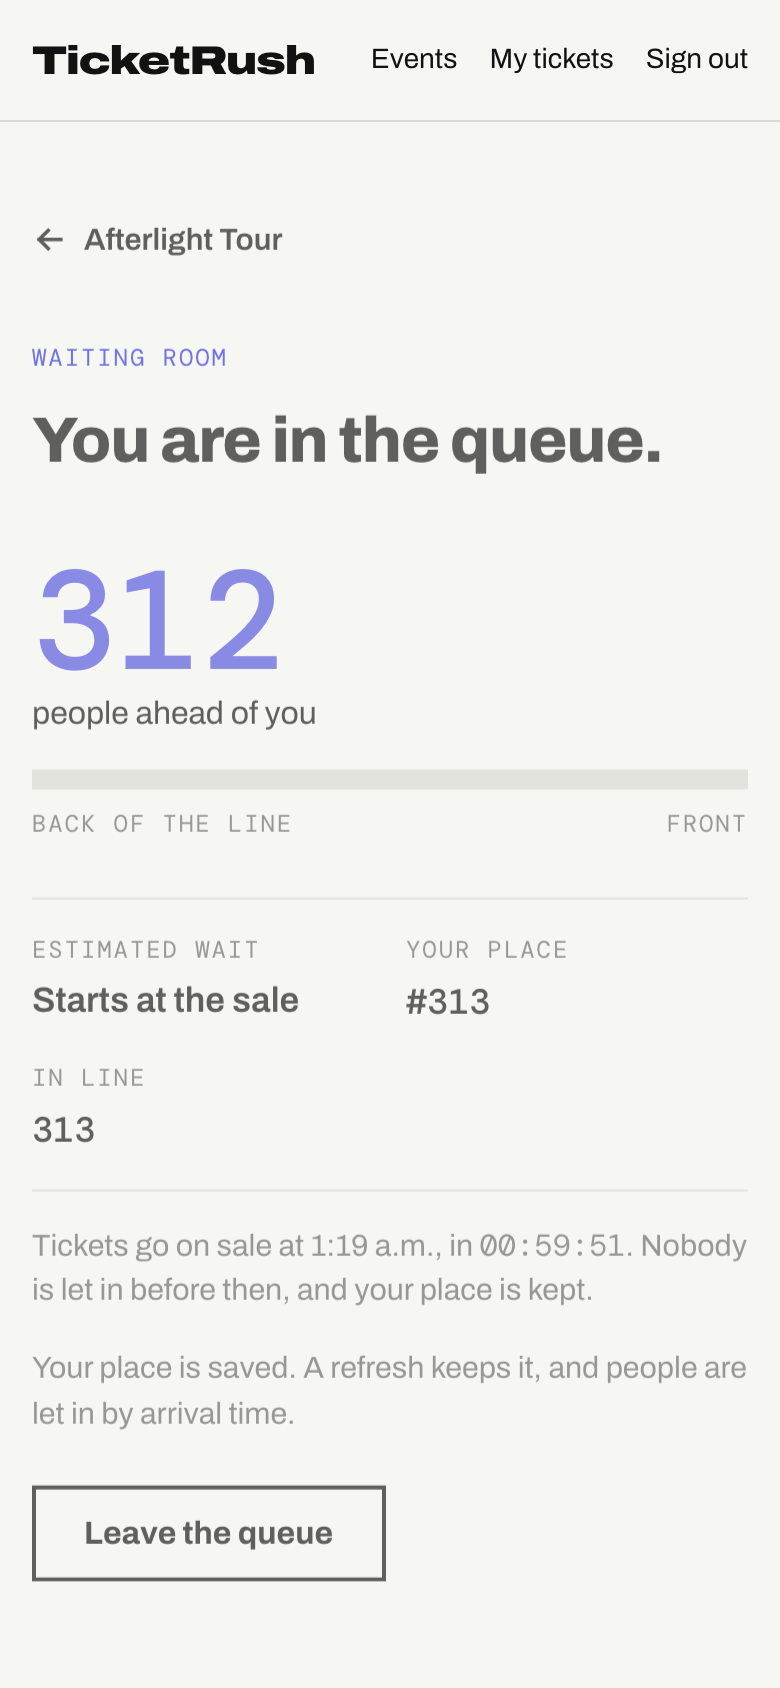
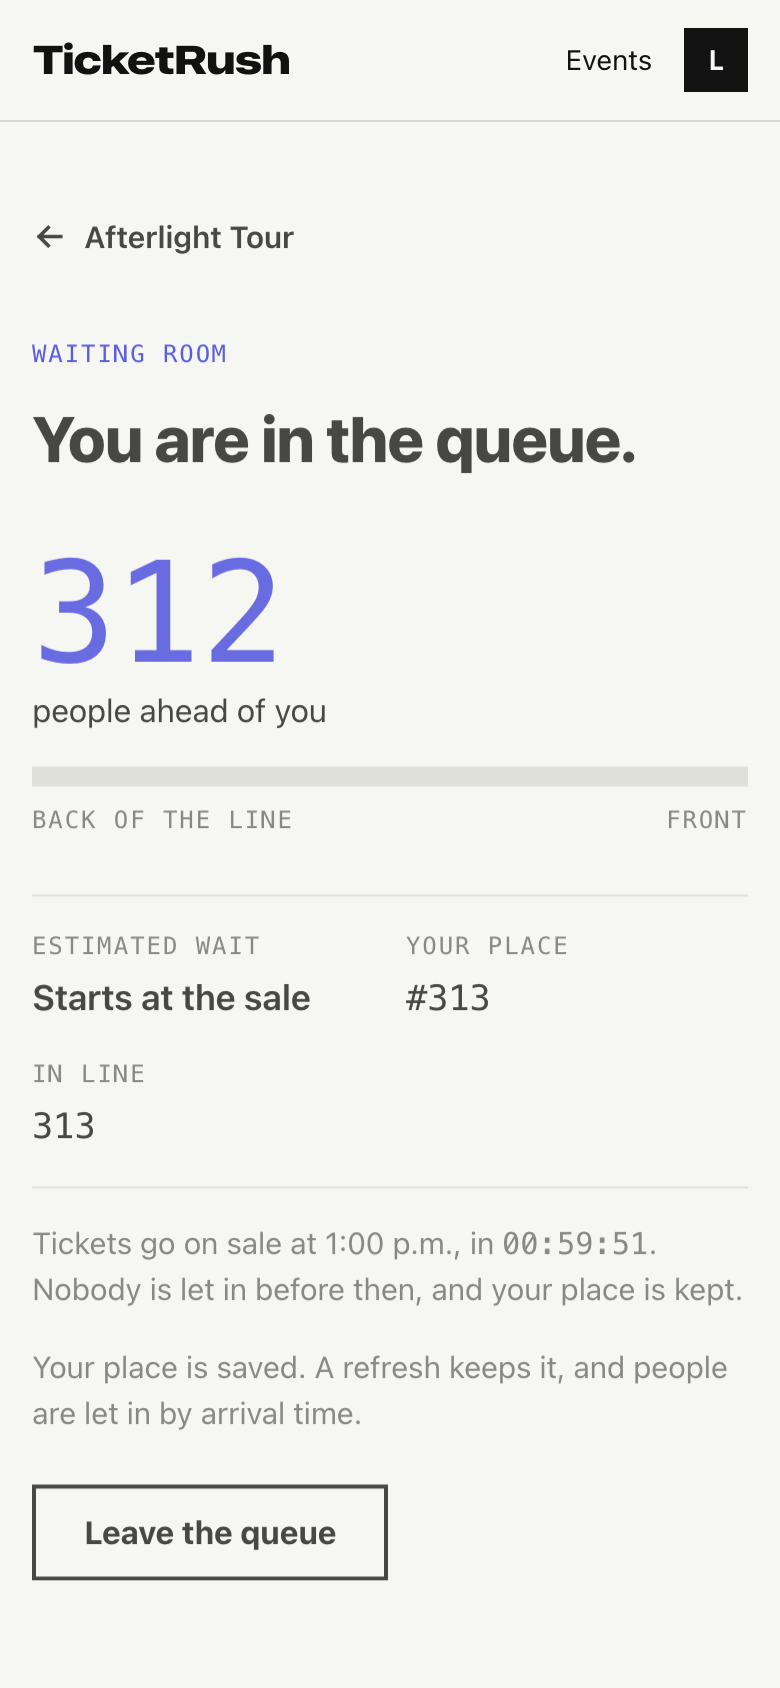
docs: refresh the README and regenerate every screenshot (#36)
* docs: refresh the README and regenerate every screenshot

The screenshots were stale (the account menu, the fixed footer links, the hold clock on checkout,
Stripe's card form didn't appear in any of them) and the README still said 'Work in progress' and the
wrong coverage gate (95% was never the number; the pom has always gated 93% lines / 82% branches).

- Regenerated all 14 README screenshots against the current UI
- Fixed a real bug in scripts/screenshots.ts while doing it: the checkout screenshot was taken mid
  view-transition (the seats page and the checkout page double-exposed in one frame) because the script
  didn't wait for the page to settle after the navigation
- Reworded the intro: the project is no longer 'in progress' in the way that line suggested (payments,
  email, security scanning, legal/account pages have shipped since); named Stripe, Turnstile, Resend and
  the security scans in the Stack section, where a reader scanning quickly would look for them first
- Corrected the JaCoCo gate number and verified every doc link in the README still resolves

No license file added; the user was asked and chose to skip it for now.

* docs: a system design section up front, with an architecture diagram

The README buried its best evidence — the load test, the ADRs, the concurrency guarantees — under
screenshots and a feature list. A reader skimming for two minutes should see the hard problems and how
they were proven solved before anything else.
[…]

diff --git a/frontend/scripts/screenshots.ts b/frontend/scripts/screenshots.ts
@@ -105,6 +105,8 @@ await shoot('checkout', 1280, 800, async (page) => {
   await chooseFree(page, 'C', 2)
   await page.getByRole('button', { name: 'Hold these 2 seats' }).click()
   await page.waitForURL('**/checkout')
+  await page.getByRole('heading', { name: 'Checkout' }).waitFor()
+  await page.waitForTimeout(700) // the seat map glides into the checkout summary; let it finish before the picture
   await page.getByLabel('Card number').fill('4242424242424242')
   await page.getByLabel('Expiry').fill('1234')
   await page.getByLabel('Security code').fill('123')

diff --git a/docs/edge-cases.md b/docs/edge-cases.md
@@ -1,0 +1,74 @@
+# Edge cases and failure modes
+
+Every row here is proven by a test that creates the situation on purpose, not by inspection or hoping. The test
+name is the plain-English description of the scenario; the file is where to find it. This list is not exhaustive —
+it is the ones worth a second look, because money, a seat, or an account was on the line.
+
+## Payments
+
+| Scenario | What happens | Proven in |
+|---|---|---|
+| A card is declined | The order fails with the provider's reason; the seat hold is kept so the guest can try another card without losing their place | `OrderIntegrationTest.aDeclinedCardFailsTheOrderButKeepsTheHoldForAnotherTry` |
+| The provider never answers (a timeout) | The order stays pending, the seats stay held past their original expiry, and a reconciler looks the charge up later and settles it — without a second charge | `OrderIntegrationTest.anUnknownOutcomeStaysPendingAndKeepsTheSeatsBeyondTheOriginalExpiry`, `aSlowChargeIsFoundAndSettledByTheReconciler` |
+| The guest retries after an unknown outcome | Settles once, using the same idempotency key; never a second charge | `OrderIntegrationTest.retryingWithTheSameKeyAfterAnUnknownOutcomeSettlesWithoutASecondCharge` |
+| 10 identical payment requests arrive at once | Exactly one order, one charge | `OrderIntegrationTest.tenIdenticalRequestsAtOnceMakeOneOrderAndOneCharge` |
+| 10 different idempotency keys for the same hold | Exactly one of them pays; the hold cannot be double-sold by generating new keys | `OrderIntegrationTest.tenRequestsWithDifferentKeysForOneHoldPayExactlyOnce` |
+| A key is reused for a different hold or card | Rejected (422), not silently treated as the earlier request | `OrderIntegrationTest.theSameKeyForADifferentRequestIsRejected` |
+| Someone else takes the seats while this guest's charge is still in flight | The charge is refunded automatically and no ticket is issued | `OrderIntegrationTest.seatsTakenWhileTheChargeRunsAreRefundedAndNoTicketsExist` |
+| The organizer cancels the event while a payment is mid-flight | The payment is refunded; nothing is sold | `EventCancellationIntegrationTest.aPaymentThatSettlesAfterTheCancelIsRefundedAndSellsNothing` |
+| A refund itself fails (provider error) | Left pending, and a reconciler keeps retrying until it goes through | `EventCancellationIntegrationTest.aRefundThatFailsStaysPendingAndTheReconcilerFinishesIt` |
+| An event is cancelled twice | Refunds nobody twice | `EventCancellationIntegrationTest.cancellingTwiceRefundsNobodyTwice` |
+| A ticket was already scanned at the door when the event is cancelled | That order is left alone — the guest attended, so they keep it | `EventCancellationIntegrationTest.aTicketThatWasAlreadyScannedIsNotRefundedButOthersAre` |
+| Stripe: a card needs 3-D Secure | Declined, and the PaymentIntent is cancelled at Stripe rather than left open | `StripePaymentGatewayTest.aCardThatNeedsExtraAuthenticationIsCancelledAndDeclined` |
+| Stripe: cancelling that PaymentIntent itself fails | The decline still stands — a failed cleanup never turns into a false success | `StripePaymentGatewayTest.aFailedCancelDoesNotChangeTheAnswer` |
+| Stripe: a refund is asked for twice | The second counts as already done, not an error to keep retrying forever | `StripePaymentGatewayTest.anAlreadyRefundedChargeCountsAsRefundedAndOtherFailuresAreRetried` |
+| The confirmation relay crashes mid-delivery | Exactly one confirmation still reaches the guest once it is back up | `OrderRecoveryIntegrationTest.aPaidOrderGetsExactlyOneConfirmationEvenIfTheRelayRunsTwice` |
+| The app is given a live (non-test) Stripe key | It refuses to start | `StripePaymentGatewayTest.theAppDoesNotStartWithALiveKey` |
+
+## Concurrency and fairness
+
+| Scenario | What happens | Proven in |
+|---|---|---|
+| 300 guests claim the same seat at the same instant | Exactly one wins, every run | `HoldConcurrencyIntegrationTest.threeHundredGuestsRaceForOneSeatAndExactlyOneWins` (see [ADR 0001](adr/0001-seat-claims.md)) |
+| A guest's own client retries a hold request in a storm (a flaky connection resending) | Ends with exactly one hold, not one per retry | `HoldConcurrencyIntegrationTest.aRetryStormFromOneGuestEndsWithExactlyOneHold` |
+| 100 guests race for a seat the instant its hold expires | Exactly one wins; expiry and claiming share the same lock, so there is no gap between them | `HoldConcurrencyIntegrationTest.aHundredGuestsRaceForASeatWhoseHoldJustExpiredAndExactlyOneWins` |
+| 200 guests join the waiting room at once | Places 1–200, no gaps and no repeats | `QueueConcurrencyIntegrationTest.twoHundredGuestsJoinAtOnceAndEndUpWithPlacesOneToTwoHundred` |
+| 8 admission rounds fire at the exact same instant | Never more than the cap let in, never the same guest admitted twice | `QueueConcurrencyIntegrationTest.eightAdmissionRoundsAtOnceNeverLetInMoreThanTheCapOrTheSameGuestTwice` |
+| An admitted guest joins the queue again | Does not go back to the end of the line | `QueueIntegrationTest.joiningAgainWhileAdmittedDoesNotPutYouBackInLine` |
+| 8 sign-ups with the same email at once | Exactly one account is created | `AuthIntegrationTest.concurrentSignUpsWithOneEmailCreateExactlyOneAccount` |
+
+## Identity and sessions
+
+| Scenario | What happens | Proven in |
+|---|---|---|
+| Wrong password vs. an email that does not exist | The same response, in the same time, either way — neither can be told apart | `AuthIntegrationTest.wrongPasswordAndUnknownEmailLookTheSame` |
+| Repeated password guesses | Slowed down per address, and the guest is told exactly how long to wait | `AuthRateLimitIntegrationTest.guessingPasswordsIsSlowedDownAndTheAnswerSaysHowLong` |
+| A token is renewed again and again, far past when the password was entered | Refused past 8 hours from the original sign-in, however often it is renewed in between | `SessionRefreshIntegrationTest.aRefreshCannotKeepASignInAliveForever` |
+| A password is reset through the emailed link | Every other outstanding reset link is retired, and sign-ins from before the change can no longer be renewed | `AccountEmailsIntegrationTest.choosingANewPasswordRetiresOtherLinksAndEndsOlderSignIns` |
+| A reset link is asked for twice inside a minute | One email, not two | `AccountEmailsIntegrationTest.askingTwiceInAMinuteSendsOneEmailAndTheAnswerNeverRevealsWhoHasAnAccount` |
+| A reset is asked for an address with no account | The response gives no sign either way | `AccountEmailsIntegrationTest.neverTouchesAnAccountThatExists` |
+| Cloudflare's bot-check service itself is unreachable | Sign-up fails closed with its own message, rather than letting the sign-up through | `SignUpBotCheckIntegrationTest.whenTheCheckCannotBeRunSignUpFailsClosedWithItsOwnMessage` |
+| No email provider is configured (a dev/demo environment) | New guests are never asked to confirm an address they cannot receive mail at | `AccountEmailsIntegrationTest.whenMailCannotBeSentGuestsAreNotAskedToConfirmAndCanGoStraightToTheQueue` |
+| A guest tries to close their account while holding a ticket for an event that has not happened | Refused, with the reason, until the ticket is used or the event is over | `AccountDataIntegrationTest.closingIsRefusedWhileATicketForAnEventToComeIsHeld` |
+| A guest tries to close their account mid-payment | Refused until the payment has settled one way or the other | `AccountDataIntegrationTest.closingIsRefusedWhileAPaymentIsStillBeingSettled` |
+| An organizer tries to close their account the same way | Refused outright — an organizer owns events and sales records | `AccountDataIntegrationTest.anOrganizerCannotCloseTheirAccountHere` |
+
+## Access control
+
+| Scenario | What happens | Proven in |
+|---|---|---|
+| A new endpoint is added with no explicit access rule | The build fails — every endpoint must be listed as open, guest, or organizer, in one place that is checked against the real routes | `AuthorizationMatrixIntegrationTest.everyEndpointIsClassifiedExactlyOnce` |
+| An anonymous caller reaches anything not meant to be public | Refused (401), checked against every endpoint in the app, not a sample | `AuthorizationMatrixIntegrationTest.anonymousCallersAreTurnedAwayFromEverythingThatIsNotOpen` |
+| A signed-in guest reaches an organizer-only endpoint | Refused (403), again checked against every endpoint | `AuthorizationMatrixIntegrationTest.aGuestIsRefusedEverythingForOrganizersAndIsNotRefusedTheRest` |
+| A guest's admission token is reused by someone else, for another event, past its expiry, or edited | Refused in each case | `HoldAdmissionGateIntegrationTest` |
+
+## What the guest actually sees (browser end to end)
+
+| Scenario | What happens | Proven in |
+|---|---|---|
+| The connection drops mid-queue or mid-hold | Told plainly; their place in line and any held seats are kept; reconnects by itself | `e2e/errors.spec.ts: going offline says so, says nothing is lost, and announces the return` |
+| The events list fails to load | Told, with a retry button; nothing about their place in line is touched | `e2e/errors.spec.ts: when the events cannot be loaded, the guest is told and can try again` |
+| Too many requests from one address | Told exactly how long to wait, and the button re-enables itself when the wait is over | `e2e/errors.spec.ts: a rate limit shows how long to wait and unlocks the button by itself` |
+| A link to an event that no longer exists | A designed "not found" screen with a way back, never a blank page | `e2e/errors.spec.ts: an unknown page or event gets a designed screen with a way home` |
+
+For the reasoning behind the design, not just the test that proves it, see [docs/adr](adr) — each record names the alternatives that were considered and why they lost.

diff --git a/README.md b/README.md
@@ -4,14 +4,38 @@
 
 Flash-sale ticketing that stays correct under a traffic spike: a waiting room, live seat maps, timed seat holds, and zero oversold seats, backed by a published load test.
 
-> Work in progress. Done: sign-in, the event and seat catalog, seat holds, the waiting room, checkout and tickets, a load test with published results, the guest web app, and the organizer console. It is live at https://ticketrush-web.fly.dev (demo data, mock payments; [how it is deployed](docs/deploy.md)).
+> End to end: sign-in and account recovery, the event and seat catalog, seat holds, the waiting room, checkout and tickets, cancellations and refunds, the organizer console, email, and a load test with published results. It is live at https://ticketrush-web.fly.dev ([how it is deployed](docs/deploy.md)) — demo data, and payments are in Stripe's test mode (no real charge is ever made; see [what it would still take to open this to the public](docs/adr/0009-ready-for-the-public.md)).
+
+## System design
+
+![Architecture: a browser reaches nginx over HTTPS, which proxies /api to the private Spring Boot API, which talks to Postgres and Redis inside the private network and to Stripe, Cloudflare Turnstile and Resend outside it](docs/img/architecture.svg)
+
+The interesting problems here are the ones that only show up under concurrency, and each is settled by a test that
+creates the race on purpose rather than by reasoning about it after the fact:
+
+| Problem | How it is solved | Proven by |
+|---|---|---|
+| **No seat is ever sold twice** | One conditional `UPDATE … WHERE status = 'AVAILABLE'` per seat, the database's own row lock as the only coordination — no distributed lock, no queue to serialize on | 300 guests claim one seat at the same instant: exactly one wins, every run. [ADR 0001](docs/adr/0001-seat-claims.md) |
+| **A fair line under load, not a stampede** | Guests join a queue in Redis; one admission round a second lets a fixed number in, shared across every app instance so horizontal scaling can't break the order | 200 guests joining at once get places 1–200 with no gaps or repeats; 8 simultaneous admission rounds admit exactly the cap, in order. [ADR 0002](docs/adr/0002-waiting-room.md) |
+| **A card is never charged twice** | Money never moves inside a database transaction. Three independent layers instead: the client's idempotency key, one live order per seat hold, and a key derived from the order at the payment provider | 10 identical requests at once produce one order and one charge; an unknown outcome (a timeout) is resolved later by a reconciler that looks the charge up, never retries blindly. [ADR 0003](docs/adr/0003-checkout-and-payments.md) |
+| **A confirmation is never lost, never duplicated** | Paying writes an outbox row in the same transaction as the payment. A relay delivers each row to idempotent listeners and retries what fails, instead of sending the email inline and hoping | Killing the relay mid-delivery and restarting it delivers each confirmation exactly once. [ADR 0003](docs/adr/0003-checkout-and-payments.md) |
+
+That reasoning, and what changed after a 1,500-guest load test found it wanting, is written down as it happened in
+[docs/adr](docs/adr) — nine decision records, each with the alternatives considered and why they lost. The four rows
+above are the headline problems; the longer, harder-to-skim list — every declined card, timeout, dropped connection,
+expired token and race condition the app is tested against, each pointing at the test that proves it — is in
+[**docs/edge-cases.md**](docs/edge-cases.md). The [load test results](docs/performance.md) are below, and the
+[security record](docs/adr/0009-ready-for-the-public.md) covers what a scan of both images, the repository and the
+running app found and how it was fixed.
 
 ## Stack
 
 - **Backend:** Java 21 (virtual threads), Spring Boot 4, Spring Security with JWT, PostgreSQL 16, Redis 7, Flyway
+- **Payments, bots and email:** Stripe (test mode; a mock provider stands in otherwise), Cloudflare Turnstile at sign-up, Resend for transactional email
 - **Deployment:** Docker images, nginx, Fly.io (two apps, the API private), a smoke test for what must be closed
 - **Frontend:** React 19, TypeScript (strict), Vite, React Router, TanStack Query, plain CSS, served by nginx. Types are generated from the backend's OpenAPI document
-- **Quality:** JUnit 5, Testcontainers, ArchUnit, JaCoCo (95% of lines, gated), Vitest and Testing Library, Playwright and axe, k6, Prometheus and Grafana, GitHub Actions
+- **Quality:** JUnit 5, Testcontainers, ArchUnit, JaCoCo (93% of lines / 82% of branches, gated), Vitest and Testing Library, Playwright and axe, k6, Prometheus and Grafana, GitHub Actions
+- **Security:** Trivy scans of both images and the repository, a ZAP baseline scan of the running app, and a test that every endpoint's access rules agree with a single list of who may call it — all on every pull request and weekly
 
 ## Run locally
 
